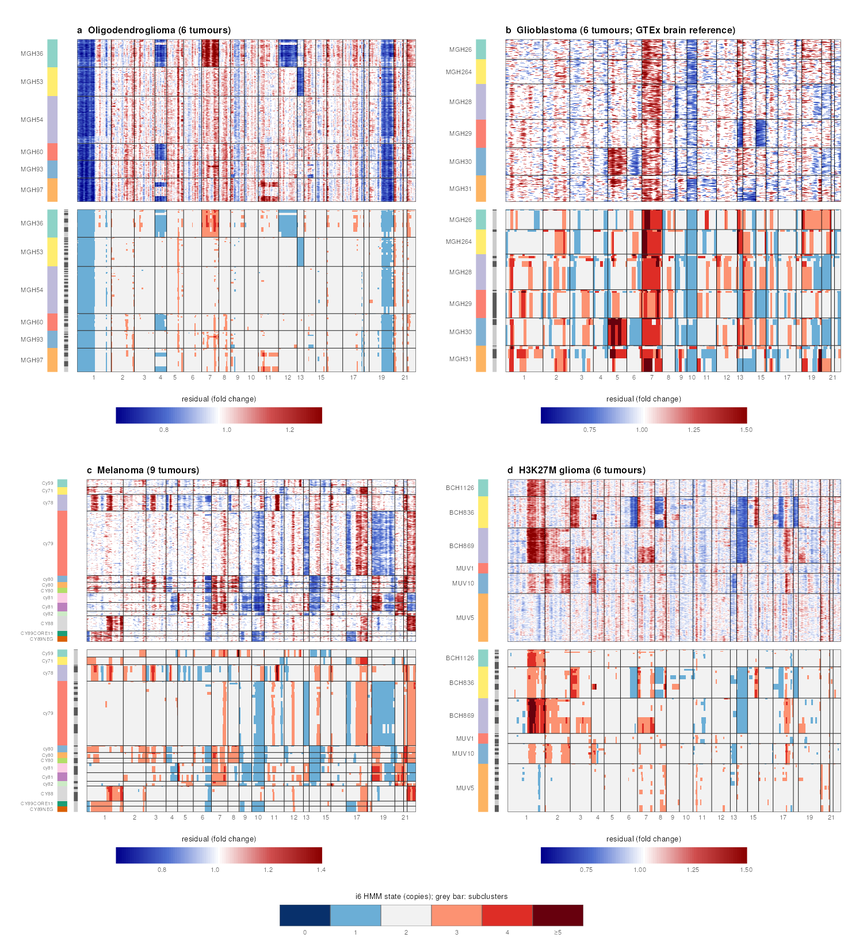
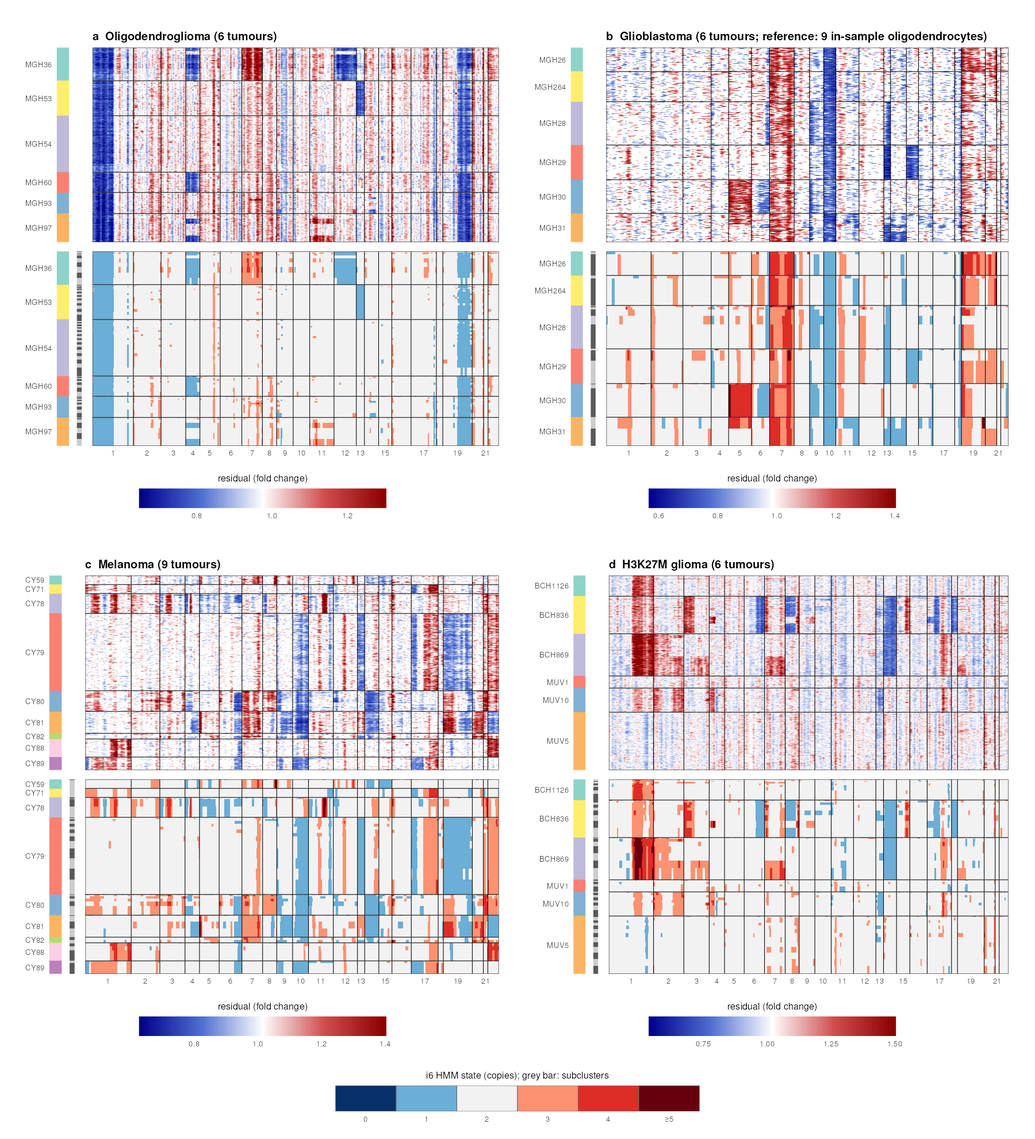
New main figure on subclustering (random_trees permutation test; partition and HMM modes on simulated subclones); Fig 3 with in-sample oligodendrocyte reference for glioblastoma and merged melanoma labels; figure references as cross-references

diff --git a/sections/results.tex b/sections/results.tex
@@ -1,34 +1,38 @@
 \section{Results}\label{sec:results}
 
-\subsection{Workflow on an example data set (Fig. 1)}
+\subsection{Workflow on an example data set (Fig.~\ref{fig:1})}
 
-Figure 1 follows the 184-cell oligodendroglioma example distributed with the package (Smart-seq2; 42 non-malignant and 142 malignant cells from four tumours \citep{tirosh2016oligo}) through the main steps of the pipeline, run with the default settings, \texttt{denoise\ =\ TRUE} and \texttt{seed\ =\ 1}. The log-transformed expression shows no visible genomic structure. After subtraction of the reference and smoothing along chromosomes, the malignant cells are shifted upwards across the genome relative to the reference; per-cell centering removes this offset. After centering and the second subtraction of the reference, the expected loss of 1p and 19q in the malignant cells appears as contiguous blocks, together with tumour-specific changes such as loss of chromosomes 4 and 12 and gain of chromosome 7 in MGH36, while the reference cells remain close to neutral. Denoising clarifies the heatmap, and the HMM converts the residual signal into discrete, filtered state calls per subcluster: 1p and 19q are called at copy number factor 0.5 in all four tumours, and the reference cells have no calls.
+Figure~\ref{fig:1} follows the 184-cell oligodendroglioma example distributed with the package (Smart-seq2; 42 non-malignant and 142 malignant cells from four tumours \citep{tirosh2016oligo}) through the main steps of the pipeline, run with the default settings, \texttt{denoise\ =\ TRUE} and \texttt{seed\ =\ 1}. The log-transformed expression shows no visible genomic structure. After subtraction of the reference and smoothing along chromosomes, the malignant cells are shifted upwards across the genome relative to the reference; per-cell centering removes this offset. After centering and the second subtraction of the reference, the expected loss of 1p and 19q in the malignant cells appears as contiguous blocks, together with tumour-specific changes such as loss of chromosomes 4 and 12 and gain of chromosome 7 in MGH36, while the reference cells remain close to neutral. Denoising clarifies the heatmap, and the HMM converts the residual signal into discrete, filtered state calls per subcluster: 1p and 19q are called at copy number factor 0.5 in all four tumours, and the reference cells have no calls.
 
-\subsection{In-silico spike-in calibration (Fig. 2)}
+\subsection{In-silico spike-in calibration (Fig.~\ref{fig:2})}
 
-Figure 2 illustrates the h-spike calibration on the full oligodendroglioma data set (4,043 malignant and 280 reference cells from six tumours \citep{tirosh2016oligo}). Counts for the simulated chromosomes are drawn from the mean--variance and mean--dropout trends of the data (Fig. 2a,b) and carried through the same processing (Fig. 2c). After processing, the residual levels of the simulated chromosomes are compressed relative to their nominal copy number factors (state means 0.48, 0.77, 1.00, 1.24, 1.48 and 2.02 for the 0-, 1-, 2-, 3-, 4- and $\geq$5-copy states, simulated at relative levels 0.01, 0.5, 1, 1.5, 2 and 3) and differ between data sets, even between the full data and the 184-cell example drawn from it (0.58, 0.84, 1.00, 1.16, 1.30 and 1.62; Fig. 2d), which is why parameters derived from the data themselves are used rather than fixed state means. The single-cell residuals of called events centre on the emission of the called state (Fig. 2e): the 1p deletion (called 1 copy) averages 0.76 against an emission mean of 0.77, the gain of chromosome 7 in MGH36 (3 copies) 1.25 against 1.24, and the higher-level 7p11--q11 segment around \textit{EGFR} in MGH36 (4 copies) 1.42 against 1.48, while the reference cells average 1.00; in the H3K27M glioma data set, 1q of BCH869, with five copies by DNA, is called $\geq$5 copies (1.52 against 1.61). Further events for each called state (Supplementary Fig.~\ref{fig:S6}) show the same agreement for 1- to 4-copy calls, but also show that high-level amplifications are compressed into the open-ended top state, that uniform gains can be split between adjacent states (BCH869 1q is called as alternating 3-, 4- and $\geq$5-copy segments), and that the few 0-copy calls come from subclusters of one to five cells and are not convincing homozygous deletions. The standard deviation of the mean h-spike residual falls with the number of cells averaged with slope $-0.49$ to $-0.51$ on log--log scale, close to the $n^{-1/2}$ expected for independent cells (Fig. 2f). On the same malignant cells, the i3 and i6 HMMs agree on the direction of the call (loss, neutral or gain) for 91\% of gene--cell pairs, and i6 makes almost no calls that i3 does not; the differences are additional i3 calls, gains on 6.3\% and losses on 3.0\% of gene--cell pairs that i6 leaves neutral, mostly short segments and some whole arms (for example 8q and 20p; Fig. 2g).
+Figure~\ref{fig:2} illustrates the h-spike calibration on the full oligodendroglioma data set (4,043 malignant and 280 reference cells from six tumours \citep{tirosh2016oligo}). Counts for the simulated chromosomes are drawn from the mean--variance and mean--dropout trends of the data (Fig.~\ref{fig:2}a,b) and carried through the same processing (Fig.~\ref{fig:2}c). After processing, the residual levels of the simulated chromosomes are compressed relative to their nominal copy number factors (state means 0.48, 0.77, 1.00, 1.24, 1.48 and 2.02 for the 0-, 1-, 2-, 3-, 4- and $\geq$5-copy states, simulated at relative levels 0.01, 0.5, 1, 1.5, 2 and 3) and differ between data sets, even between the full data and the 184-cell example drawn from it (0.58, 0.84, 1.00, 1.16, 1.30 and 1.62; Fig.~\ref{fig:2}d), which is why parameters derived from the data themselves are used rather than fixed state means. The single-cell residuals of called events centre on the emission of the called state (Fig.~\ref{fig:2}e): the 1p deletion (called 1 copy) averages 0.76 against an emission mean of 0.77, the gain of chromosome 7 in MGH36 (3 copies) 1.25 against 1.24, and the higher-level 7p11--q11 segment around \textit{EGFR} in MGH36 (4 copies) 1.42 against 1.48, while the reference cells average 1.00; in the H3K27M glioma data set, 1q of BCH869, with five copies by DNA, is called $\geq$5 copies (1.52 against 1.61). Further events for each called state (Supplementary Fig.~\ref{fig:S6}) show the same agreement for 1- to 4-copy calls, but also show that high-level amplifications are compressed into the open-ended top state, that uniform gains can be split between adjacent states (BCH869 1q is called as alternating 3-, 4- and $\geq$5-copy segments), and that the few 0-copy calls come from subclusters of one to five cells and are not convincing homozygous deletions. The standard deviation of the mean h-spike residual falls with the number of cells averaged with slope $-0.49$ to $-0.51$ on log--log scale, close to the $n^{-1/2}$ expected for independent cells (Fig.~\ref{fig:2}f). On the same malignant cells, the i3 and i6 HMMs agree on the direction of the call (loss, neutral or gain) for 91\% of gene--cell pairs, and i6 makes almost no calls that i3 does not; the differences are additional i3 calls, gains on 6.3\% and losses on 3.0\% of gene--cell pairs that i6 leaves neutral, mostly short segments and some whole arms (for example 8q and 20p; Fig.~\ref{fig:2}g).
 
-\subsection{Application to tumours (Fig. 3)}
+\subsection{Application to tumours (Fig.~\ref{fig:3})}
 
-inferCNV recovers the hallmark CNAs of tumours profiled with Smart-seq2 in the original studies of the method (Fig. 3; inferCNV\_examples data, run with the release and \texttt{seed\ =\ 1}). The 1p/19q co-deletion is called in all six oligodendrogliomas \citep{tirosh2016oligo}, and gain of chromosome 7 with loss of chromosome 10 in all six glioblastomas \citep{patel2014}; with the GTEx bulk brain reference used for the glioblastoma data, the HMM also calls many additional, tumour-specific arm-level changes. The melanomas \citep{tirosh2016melanoma} show diverse, tumour-specific profiles, and in the H3K27M gliomas \citep{filbin2018} gain of 1q is called in three of six tumours (BCH1126, BCH836 and BCH869), while MUV1 and MUV5 have few calls. In some oligodendroglioma and H3K27M glioma samples, subclusters within a tumour show distinct CNA patterns, as noted previously \citep{haas2021thesis}: in MGH97, 41\% of the cells carry loss of 4q and gain of 11q, and in BCH869, gains of 2q and 7q are called in 54\% and 47\% of the cells.
+inferCNV recovers the hallmark CNAs of tumours profiled with Smart-seq2 in the original studies of the method (Fig.~\ref{fig:3}; inferCNV\_examples data, run with the release and \texttt{seed\ =\ 1}). The 1p/19q co-deletion is called in all six oligodendrogliomas \citep{tirosh2016oligo}, and gain of chromosome 7 with loss of chromosome 10 in all six glioblastomas \citep{patel2014}. For the glioblastomas, which contain almost no non-malignant cells, the original study used a bulk normal-brain sample together with ten normal cells as the reference \citep{patel2014}; nine of these, oligodendrocytes, can be recognised in the data by their marker expression. With these nine cells as the reference (Fig.~\ref{fig:3}b), gains of chromosome 7 and losses of chromosome 10 were called for 97\% and 99.7\% of the corresponding gene $\times$ cell positions, and 25\% of positions on other chromosomes were non-neutral; with 1,026 GTEx bulk brain samples as the reference instead, the corresponding values were 93\%, 95\% and 45\%, and adding the GTEx samples to the nine cells gave intermediate background (32\%). A reference of matching normal cells from the same sample is therefore preferable, and bulk tissue profiles are a usable but noisier substitute. The melanomas \citep{tirosh2016melanoma} show diverse, tumour-specific profiles, and in the H3K27M gliomas \citep{filbin2018} gain of 1q is called in three of six tumours (BCH1126, BCH836 and BCH869), while MUV1 and MUV5 have few calls. In some oligodendroglioma and H3K27M glioma samples, subclusters within a tumour show distinct CNA patterns, as noted previously \citep{haas2021thesis}: in MGH97, 41\% of the cells carry loss of 4q and gain of 11q, and in BCH869, gains of 2q and 7q are called in 54\% and 47\% of the cells.
 
 As an orthogonal check on the classification of cells as malignant, we compared inferCNV with detection of the SS18--SSX fusion transcript, the defining driver of synovial sarcoma, in three synovial sarcomas profiled by Smart-seq2 \citep{jerbyarnon2021}, whose reads we reprocessed (Methods; fusions detected with STAR-Fusion \citep{haas2019starfusion, dobin2013star}). For each patient, half of the published immune and stromal cells, one group per published cluster, served as the reference; the other half were held out and analysed together with the malignant cells, and each observed cell was classified from its CNV score and its correlation with the tumour's CNV profile, with thresholds set from the reference cells (Supplementary Fig.~\ref{fig:S5}). Of the 349 observed cells in which SS18--SSX reads were detected, 344 (98.6\%) were classified as malignant (SS1, 153/158; SS13, 141/141; SS16, 50/50); the five exceptions, in SS1, lay just below the thresholds. Malignant cells without detected fusion reads were classified as malignant at the same rate (99.2\%), consistent with incomplete detection of the fusion transcript rather than a distinct population. Of the held-out immune and stromal cells, 266 of 281 (94.7\%) were classified as non-malignant; most of the others lay near the thresholds or came from small clusters with little representation in the reference. All cells labelled malignant by the CNV analysis of the original study were classified as malignant; that label, however, covered only 42 of the 349 malignant cells of SS1, which accounts for most of the disagreement with it.
 
-\subsection{Accuracy against DNA-based copy number (Fig. 4)}
+\subsection{Subclustering (Fig.~\ref{fig:subclusters})}
+
+Because single-cell residuals are noisy, inferCNV runs the HMM on subclusters of cells by default (Fig.~\ref{fig:subclusters}). We compared the partition methods and HMM modes on the simulated four-subclone tumours (sim4; 230 tumour cells analysed as one annotation group; five seeds). The \texttt{random\_trees} method tests each split of the cell dendrogram against a permutation null of the maximum tree height (Fig.~\ref{fig:subclusters}a): in the Smart-seq2 example, the three splits that separate the subclones were significant (p < 0.01), while the dendrograms within subclones A and C were not (p = 0.50 and 0.82). The recursion therefore stopped at four subclusters that matched the subclones for 219 of 230 cells. Across seeds, \texttt{random\_trees} found four or five subclusters, with an ARI against the true subclones of 0.83 (Smart-seq2) and 0.87 (10x). Leiden subclustering, the default, produced 4--8 subclusters, splitting some subclones and merging others (ARI 0.64 and 0.86). The calls followed the partitions: \texttt{random\_trees} gave the highest cell $\times$ gene sensitivity and precision (Smart-seq2 0.97/0.99; 10x 0.99/0.97) against Leiden (0.95/0.96; 0.97/0.96). It also took about the same time at this size (9 and 6 min). Leiden also subclusters the reference cells, and HMM calls in the smallest reference subclusters gave a non-neutral call rate of 0.6--1.5\% in the references, against $\leq$0.1\% with the other partitions. Per-chromosome Leiden subclustering did not improve the calls here (sensitivity 0.93 and 0.97). Without subclustering (\texttt{analysis\_mode = "samples"}), only the clonal CNAs were called (sensitivity 0.74 and 0.81). At the other extreme, per-cell HMM (\texttt{"cells"}) called many false CNAs (precision 0.38 and 0.58; non-neutral calls in 35\% and 20\% of reference gene positions) and took 5--12 times longer (110 and 49 min), mainly in the Bayesian model. Subcluster-level HMM therefore gave the best balance of resolution and noise. \texttt{random\_trees} is therefore preferable when resolving subclones is the aim; its run time at larger numbers of cells was not tested here, and these results come from one simulation design, in which subclones differ by whole-chromosome events.
+
+\subsection{Accuracy against DNA-based copy number (Fig.~\ref{fig:4})}
 
 We used samples and whole-exome copy number truth from the benchmark of \citet{schmid2025} and re-implemented its evaluation (Methods); the comparison with other callers is in that study. Two scores were averaged over malignant cells per genomic bin: the HMM states after Bayesian filtering (CNV score) and the final denoised residual expression (expression score).
 
-For the 10x multiple myeloma sample MM199 (1,916 malignant cells, 245 reference B and NK/T cells), inferCNV's pseudobulk profile followed the exome copy number profile (Fig. 4). The CNV score had an AUC of 0.837 for gains and 0.779 for losses, a Pearson correlation with the truth of 0.581, and a maximal three-class F1 of 0.639 (gain sensitivity 0.562 and precision 0.730; loss sensitivity 0.467 and precision 0.683). The expression score gave similar AUCs (0.831 for gains, 0.786 for losses), the same maximal F1 (0.639) and a lower correlation (0.507). For context, Schmid et al.~reported for inferCNV v1.10 on this sample maximal F1 of 0.673 (CNV) and 0.664 (expression), gain AUCs of 0.837 and 0.849, loss AUCs of 0.782 and 0.801, and correlations of 0.612 and 0.585 \citep{schmid2025}. The values are close despite differences in input: Schmid et al.~reprocessed the reads and used 362 reference cells, whereas we used the deposited count matrix with a re-derived annotation and a newer gene annotation. The partial AUCs of the CNV score were higher than reported for v1.10 (0.796 against 0.700 for gains, 0.620 against 0.544 for losses), but the differences in input preclude attributing this to changes in the code.
+For the 10x multiple myeloma sample MM199 (1,916 malignant cells, 245 reference B and NK/T cells), inferCNV's pseudobulk profile followed the exome copy number profile (Fig.~\ref{fig:4}). The CNV score had an AUC of 0.837 for gains and 0.779 for losses, a Pearson correlation with the truth of 0.581, and a maximal three-class F1 of 0.639 (gain sensitivity 0.562 and precision 0.730; loss sensitivity 0.467 and precision 0.683). The expression score gave similar AUCs (0.831 for gains, 0.786 for losses), the same maximal F1 (0.639) and a lower correlation (0.507). For context, Schmid et al.~reported for inferCNV v1.10 on this sample maximal F1 of 0.673 (CNV) and 0.664 (expression), gain AUCs of 0.837 and 0.849, loss AUCs of 0.782 and 0.801, and correlations of 0.612 and 0.585 \citep{schmid2025}. The values are close despite differences in input: Schmid et al.~reprocessed the reads and used 362 reference cells, whereas we used the deposited count matrix with a re-derived annotation and a newer gene annotation. The partial AUCs of the CNV score were higher than reported for v1.10 (0.796 against 0.700 for gains, 0.620 against 0.544 for losses), but the differences in input preclude attributing this to changes in the code.
 
 The two basal cell carcinoma samples of the benchmark (BCC06 before and after treatment) are shown in Supplementary Fig. S1. Against their exome truth, both inferCNV scores were close to chance (AUC 0.57--0.62, maximal F1 0.41--0.42; Supplementary Table S2), as were the values reported for v1.10 (maximal F1 0.38--0.43) and for all callers in \citet{schmid2025}. The exome segmentation of these samples is highly fragmented (4,522 segments for BCC06, about half of them losses with small copy ratios) and labels about half of the genome as altered, whereas inferCNV shows a few clear arm-level events; BCC06 also has only 33 reference cells. These samples therefore measure the noise of the truth as much as the accuracy of the caller.
 
 BCH869, an H3K27M glioma, contains only three non-malignant cells, so we ran inferCNV on its 489 malignant cells with the immune and oligodendrocyte cells of another tumour from the same study (BCH1126) as the reference, one group per cell type, after reprocessing the reads of both (Methods). We compared the result with the clone copy-number profiles that Filbin et al.\ derived from scRNA-seq and bulk whole-genome sequencing \citep{filbin2018}, as tabulated with per-cell clone labels by \citet{huang2024xclone} (Fig.~\ref{fig:4}b). Averaged over the cells of each clone, the HMM calls recovered all arm-level events of the three main clones (the shared gains of 1q, 2p and 17q and loss of chromosome 14, and the clone 1 gains of 2q, 3q, 7 and 19p), and most events of the 7-cell clone 4. At the arm level, the CNV score had AUCs of 0.98 for gains and 1.00 for losses (maximal F1 0.91 and 1.00); at the gene level, 0.88 and 0.99 (F1 0.79 and 0.84). inferCNV also called a few regions absent from the truth (a loss on 19p13.1 and scattered focal changes), and the three non-malignant BCH869 cells carried scattered focal calls, consistent with residual differences between a reference drawn from another patient and the tumour. The Leiden subclusters separated clone 1 from the other cells and isolated clone 4, but did not separate clones 2 and 3, which differ only by a gain of 2q, and split the large clones into several subclusters (adjusted Rand index 0.52).
 
-\subsection{Accuracy on simulated data (Fig. 5)}
+\subsection{Accuracy on simulated data (Fig.~\ref{fig:5})}
 
 Real data rarely provide cell-level truth, so we evaluated cell × gene accuracy on simulated tumours (Methods). Counts were simulated from normal cells of a Smart-seq2 data set (synovial sarcoma non-malignant cells \citep{jerbyarnon2021}) and a 10x data set, with CNAs covering whole chromosomes (0.5×, 1.5× and 2×) and parts of chromosomes (a 2× partial gain on chr2 and a near-complete loss on chr8), in one tumour population (sim1) or two to four subclones with shared and private events (sim2--sim4). inferCNV was run with the default Leiden subclustering, the i6 HMM and Bayesian filtering, five times with different random seeds.
 
-Across scenarios, inferCNV detected 95--100\% of altered gene positions in tumour cells with the correct direction, and 92--97\% of its non-neutral calls were correct (Table 1, Fig. 5). Among altered genes, the exact i6 state was correct for 89--97\%. In the reference cells, 0.5--0.6\% (10x) and 1.1--1.5\% (Smart-seq2) of gene calls were non-neutral. Subclones were mostly separated by the Leiden subclustering, with subcluster purity falling from 1.00 for a single population to 0.91 (10x) and 0.84 (Smart-seq2) for four subclones of 30--100 cells that share most of their CNAs (sim4). The Bayesian filter mainly removed false calls: for Smart-seq2, it reduced the non-neutral call rate in reference cells from 1.5--2.0\% to 1.1--1.5\% and increased precision by about 0.01, at a cost of at most 0.01 in sensitivity; for 10x the changes were smaller.
+Across scenarios, inferCNV detected 95--100\% of altered gene positions in tumour cells with the correct direction, and 92--97\% of its non-neutral calls were correct (Table 1, Fig.~\ref{fig:5}). Among altered genes, the exact i6 state was correct for 89--97\%. In the reference cells, 0.5--0.6\% (10x) and 1.1--1.5\% (Smart-seq2) of gene calls were non-neutral. Subclones were mostly separated by the Leiden subclustering, with subcluster purity falling from 1.00 for a single population to 0.91 (10x) and 0.84 (Smart-seq2) for four subclones of 30--100 cells that share most of their CNAs (sim4). The Bayesian filter mainly removed false calls: for Smart-seq2, it reduced the non-neutral call rate in reference cells from 1.5--2.0\% to 1.1--1.5\% and increased precision by about 0.01, at a cost of at most 0.01 in sensitivity; for 10x the changes were smaller.
 
 \textbf{Table 1.} Simulation accuracy of the i6 HMM after Bayesian filtering (mean ± s.d. over 5 seeds; release build of the expression model, master v1.23.0 code). Sensitivity: altered gene positions in tumour cells called in the correct direction. Precision: non-neutral calls in the correct direction. Exact state: correct i6 state among altered positions. Reference calls: non-neutral call rate in reference cells. Purity: fraction of tumour cells in subclusters dominated by their own simulated group.
 
@@ -74,8 +78,8 @@ With the three-state HMM, results on 10x data were similar to i6 in sensitivity 
 
 Simulated data are easier than real data. The simulator draws counts from the same mean--variance and dropout model that underlies the h-spike calibration, the simulated CNAs are large, and the simulations contain no batch effects, no cell-type-specific expression programmes among the malignant cells and no doublets. On real 10x data, expression-based calls are noticeably noisier than in these simulations. The simulations therefore show that the implementation behaves as intended, rather than estimating its accuracy in practice.
 
-\subsection{Specificity and scale (Fig. 6)}
+\subsection{Specificity and scale (Fig.~\ref{fig:6})}
 
 To estimate the false-call rate on data without CNAs, we ran inferCNV on peripheral blood mononuclear cells from a healthy donor \citep{tenx2016pbmc3k, xclonedata} (2,625 cells in seven cell types; 2,286 genes after filtering), in four reference designs (Fig.~\ref{fig:6}a). When a random half of every cell type served as the reference for the other half, with one reference group per cell type, 8.7\% of genes $\times$ cells in the observations were in a non-neutral i6 state before and 5.9\% after Bayesian filtering (0--8.3\% by cell type). When the same reference cells were pooled into a single group, the rate rose to 16.7\% (15.0\% after filtering; 7--28\% by cell type), because the reference subtraction can only cancel cell-type-specific expression when the reference cell types are given as separate groups (Section~\ref{sec:implementation}). A random half of the CD4 T cells as the only reference gave 4.1\% (3.8\%) for the other CD4 T cells, but 10--31\% for other lymphocytes and 40--45\% for monocytes; with B cells as the reference, every other cell type had 16--45\%. These calls reflect cell-type expression programmes in gene-dense regions: chromosome arm 6p, and within it the MHC, was the most enriched region in the pooled and mismatched designs (2.1--3.8-fold its share of genes), followed by regions such as the interferon-induced IFITM cluster on 11p15 and 19p13. The Bayesian filter removed about a third of the calls with per-type reference groups, but only 5--10\% (relative) in the other designs, where the false calls form coherent multi-gene regions. The main safeguard against false calls is therefore a reference that covers the lineages of the cells of interest, given as separate groups per cell type.
 
-Run time was the main practical criticism of inferCNV in \citet{schmid2025}. With 4 threads, the three tumour samples of Fig. 4 ran in 12 min (BCC06post; 600 cells), 28 min (BCC06; 1,436 cells) and 50 min (MM199; 2,161 cells and 5,740 genes after filtering), with peak memory of 3.4, 9.6 and 14.8 GB. Most of the time was spent in the Bayesian model and its plots. On a 10x triple-negative breast cancer data set (TNBC1, 1,097 cells) run with 4 threads on a heavily loaded 8-core host, an expression-only run took 1.47 h, of which filtering, normalisation and smoothing took 10 min, Leiden subclustering 17 s, the HMM 6.5 min, the Bayesian model 57 min and the subsequent filtering 13 min; these times are upper bounds. In the simulations (200--330 cells, including 100 reference cells), runs took 3--8 min with the i6 HMM. On nested down-samples of a 10x breast cancer atlas \citep{wu2021breast} (GEO GSE176078; 500--20,000 cells, 80\% malignant cells from eight tumours and 20\% endothelial cells and fibroblasts as the reference; about 8,000 genes after filtering), run with 4 threads on lightly loaded cluster nodes, the default run (i6 with the Bayesian filter) took 17 min for 500 cells, 77 min for 2,500, 4.3 h for 10,000 and 9.4 h for 20,000, with peak memory of 4.7, 20, 66 and 117 GB (Fig.~\ref{fig:6}b--d). The Bayesian model accounted for 76--89\% of the time. Without it, the same runs took 4, 12, 33 and 61 min with 1.6, 3.6, 11 and 19 GB, scaling close to linearly with the number of cells; the i3 HMM was 4--46\% faster still (2--58 min). In these runs the HMM (33 min at 20,000 cells) and preprocessing (20 min) were the largest remaining steps, and Leiden subclustering took 2 min. Users with large data sets can skip the Bayesian model (\texttt{BayesMaxPNormal\ =\ 0}), use the i3 HMM, increase \texttt{num\_threads}, or subsample groups with \texttt{max\_cells\_per\_group}.
+Run time was the main practical criticism of inferCNV in \citet{schmid2025}. With 4 threads, the three tumour samples of Fig.~\ref{fig:4} ran in 12 min (BCC06post; 600 cells), 28 min (BCC06; 1,436 cells) and 50 min (MM199; 2,161 cells and 5,740 genes after filtering), with peak memory of 3.4, 9.6 and 14.8 GB. Most of the time was spent in the Bayesian model and its plots. On a 10x triple-negative breast cancer data set (TNBC1, 1,097 cells) run with 4 threads on a heavily loaded 8-core host, an expression-only run took 1.47 h, of which filtering, normalisation and smoothing took 10 min, Leiden subclustering 17 s, the HMM 6.5 min, the Bayesian model 57 min and the subsequent filtering 13 min; these times are upper bounds. In the simulations (200--330 cells, including 100 reference cells), runs took 3--8 min with the i6 HMM. On nested down-samples of a 10x breast cancer atlas \citep{wu2021breast} (GEO GSE176078; 500--20,000 cells, 80\% malignant cells from eight tumours and 20\% endothelial cells and fibroblasts as the reference; about 8,000 genes after filtering), run with 4 threads on lightly loaded cluster nodes, the default run (i6 with the Bayesian filter) took 17 min for 500 cells, 77 min for 2,500, 4.3 h for 10,000 and 9.4 h for 20,000, with peak memory of 4.7, 20, 66 and 117 GB (Fig.~\ref{fig:6}b--d). The Bayesian model accounted for 76--89\% of the time. Without it, the same runs took 4, 12, 33 and 61 min with 1.6, 3.6, 11 and 19 GB, scaling close to linearly with the number of cells; the i3 HMM was 4--46\% faster still (2--58 min). In these runs the HMM (33 min at 20,000 cells) and preprocessing (20 min) were the largest remaining steps, and Leiden subclustering took 2 min. Users with large data sets can skip the Bayesian model (\texttt{BayesMaxPNormal\ =\ 0}), use the i3 HMM, increase \texttt{num\_threads}, or subsample groups with \texttt{max\_cells\_per\_group}.

diff --git a/sections/implementation.tex b/sections/implementation.tex
@@ -1,6 +1,6 @@
 \section{Implementation}\label{sec:implementation}
 
-A run has two parts: creation of an \texttt{infercnv} object from the inputs, and a call to \texttt{run()}, which applies a fixed sequence of numbered steps (Fig. 1). We describe the expression model with the code defaults of the release; Supplementary Methods gives every step, and Table S1 the parameters \todo{RESULT PENDING: parameter table, from Supplementary Methods}.
+A run has two parts: creation of an \texttt{infercnv} object from the inputs, and a call to \texttt{run()}, which applies a fixed sequence of numbered steps (Fig.~\ref{fig:1}). We describe the expression model with the code defaults of the release; Supplementary Methods gives every step, and Table S1 the parameters \todo{RESULT PENDING: parameter table, from Supplementary Methods}.
 
 \subsection{Inputs}
 
@@ -10,7 +10,7 @@ At object creation, cells with fewer than 100 counts are removed (\texttt{min\_m
 
 \subsection{Expression signal}
 
-Counts are converted into a residual expression signal in which large-scale CNAs appear as contiguous blocks of increased or decreased values (Fig. 1).
+Counts are converted into a residual expression signal in which large-scale CNAs appear as contiguous blocks of increased or decreased values (Fig.~\ref{fig:1}).
 
 \begin{enumerate}
 \def\labelenumi{\arabic{enumi}.}
@@ -49,7 +49,7 @@ To call discrete CNAs, inferCNV segments each chromosome with a hidden Markov mo
 
 First, the default HMM (\texttt{HMM\_type\ =\ "i6"}) has six states. Internally they are defined as expression levels relative to the reference: 0 (simulated as 0.01), 0.5, 1, 1.5, 2 and 3. Taking the reference as diploid, we report them throughout this paper as copy numbers: 0, 1, 2 (neutral, including copy-neutral events), 3, 4 and $\geq$5 copies. The highest state is calibrated at three times the reference level (6 copies) but acts as a catch-all: with no higher state available, any gain beyond about 4 copies, including high-level focal amplifications, is assigned to it, so the HMM does not resolve the amplitude of such events.
 
-Second, the expected residual signal of each state is learned by simulation. There is no simple statistical way to place six state means from the observed data, but the behaviour of normal cells in the same experiment can be modelled. From the reference cells, inferCNV fits the relationship between the log variance and log mean of normalised expression, and between the fraction of zero counts and log mean expression, with smoothing splines. It then constructs a synthetic ``hidden spike-in'' (h-spike) genome: ten artificial chromosomes of 400 genes alternate between neutral copy number and the five altered levels (with 0.01 rather than 0 for complete loss, to allow for ambient or contaminating reads), and one further neutral chromosome takes the remaining genes, so that the h-spike has as many genes as the input matrix. Gene means are sampled with replacement from the observed genes, multiplied by the copy number factor of their chromosome, and counts are simulated for 100 normal and 100 altered cells per reference group from the fitted mean--variance and dropout trends. The h-spike counts are then carried through exactly the same filtering, normalisation, reference subtraction, smoothing and centering as the real data. The processed residuals of each h-spike chromosome give the emission mean and standard deviation of the corresponding state (Fig. 2). The calibration thus accounts for the compression of the signal by processing and for the depth and dropout of the data set. Two caveats apply to the copy-number labels. First, they are relative to each tumour cell's dominant copy-number level. Because the h-spike is built from the reference cells, gains and losses of chromosomes or arms relative to the normal genome are detected as such. However, depth normalisation scales every cell to the same library size, so a uniform change in ploidy, such as whole-genome doubling, is invisible; and centering each cell on its median residual (step 13) makes the most common copy-number level of that cell the neutral state. When most of the genome is unaltered, as in many tumours, this level corresponds to the normal (diploid) dosage; in a highly aneuploid tumour, for example a near-triploid one, it does not: chromosomes at the dominant level appear neutral, and chromosomes at two copies appear as losses. And they are nominal: the h-spike assumes that expression scales in proportion to copy number, whereas dosage effects on expression in real tumours can be weaker or gene-dependent, so a state label describes the calibration level that best matches the observed signal rather than a measured copy number. For groups of cells, emission standard deviations are scaled for group size by a fit of log standard deviation on log number of cells, from resampling 1--100 h-spike cells.
+Second, the expected residual signal of each state is learned by simulation. There is no simple statistical way to place six state means from the observed data, but the behaviour of normal cells in the same experiment can be modelled. From the reference cells, inferCNV fits the relationship between the log variance and log mean of normalised expression, and between the fraction of zero counts and log mean expression, with smoothing splines. It then constructs a synthetic ``hidden spike-in'' (h-spike) genome: ten artificial chromosomes of 400 genes alternate between neutral copy number and the five altered levels (with 0.01 rather than 0 for complete loss, to allow for ambient or contaminating reads), and one further neutral chromosome takes the remaining genes, so that the h-spike has as many genes as the input matrix. Gene means are sampled with replacement from the observed genes, multiplied by the copy number factor of their chromosome, and counts are simulated for 100 normal and 100 altered cells per reference group from the fitted mean--variance and dropout trends. The h-spike counts are then carried through exactly the same filtering, normalisation, reference subtraction, smoothing and centering as the real data. The processed residuals of each h-spike chromosome give the emission mean and standard deviation of the corresponding state (Fig.~\ref{fig:2}). The calibration thus accounts for the compression of the signal by processing and for the depth and dropout of the data set. Two caveats apply to the copy-number labels. First, they are relative to each tumour cell's dominant copy-number level. Because the h-spike is built from the reference cells, gains and losses of chromosomes or arms relative to the normal genome are detected as such. However, depth normalisation scales every cell to the same library size, so a uniform change in ploidy, such as whole-genome doubling, is invisible; and centering each cell on its median residual (step 13) makes the most common copy-number level of that cell the neutral state. When most of the genome is unaltered, as in many tumours, this level corresponds to the normal (diploid) dosage; in a highly aneuploid tumour, for example a near-triploid one, it does not: chromosomes at the dominant level appear neutral, and chromosomes at two copies appear as losses. And they are nominal: the h-spike assumes that expression scales in proportion to copy number, whereas dosage effects on expression in real tumours can be weaker or gene-dependent, so a state label describes the calibration level that best matches the observed signal rather than a measured copy number. For groups of cells, emission standard deviations are scaled for group size by a fit of log standard deviation on log number of cells, from resampling 1--100 h-spike cells.
 
 A simpler three-state HMM (\texttt{HMM\_type\ =\ "i3"}; loss, neutral, gain) does not use the h-spike. Its neutral state has the mean and standard deviation of the reference residuals, and the loss and gain means lie at the distance detectable at \texttt{HMM\_i3\_pval\ =\ 0.05} for the number of cells modelled (Z-based by default; a Kolmogorov--Smirnov criterion as in HoneyBADGER is optional).
 

diff --git a/sections/figures.tex b/sections/figures.tex
@@ -1,7 +1,7 @@
 \begin{figure}[p]
 \centering
 \includegraphics[width=\textwidth]{figures/fig1_workflow.png}
-\caption{\textbf{The inferCNV workflow.} Top, schematic of the main steps; letters mark the steps shown below. Heatmaps, snapshots from the 184-cell oligodendroglioma example data set (142 malignant cells from four tumours above, 42 reference cells below; columns are genes ordered by genomic position, chromosome numbers below). (a) Log-transformed expression after gene filtering and depth normalisation. (b) Residual expression after subtraction of the reference mean and smoothing along each chromosome (log scale). (c) After per-cell centering. (d) After the second reference subtraction, shown on the fold-change scale. (e) After denoising (\texttt{denoise\ =\ TRUE}; same colour scale as d). (f) i6 HMM states after Bayesian filtering (\texttt{BayesMaxPNormal\ =\ 0.5}); the HMM is run per Leiden subcluster (grey bar; one subcluster per tumour in this data set) on the residuals in (d), and each cell is shown with the states of its subcluster. Panels (e) and (f) are alternative outputs derived from (d). The h-spike (top, orange) is processed alongside the data and supplies the HMM emission parameters (Fig.~2).}
+\caption{\textbf{The inferCNV workflow.} Top, schematic of the main steps; letters mark the steps shown below. Heatmaps, snapshots from the 184-cell oligodendroglioma example data set (142 malignant cells from four tumours above, 42 reference cells below; columns are genes ordered by genomic position, chromosome numbers below). (a) Log-transformed expression after gene filtering and depth normalisation. (b) Residual expression after subtraction of the reference mean and smoothing along each chromosome (log scale). (c) After per-cell centering. (d) After the second reference subtraction, shown on the fold-change scale. (e) After denoising (\texttt{denoise\ =\ TRUE}; same colour scale as d). (f) i6 HMM states after Bayesian filtering (\texttt{BayesMaxPNormal\ =\ 0.5}); the HMM is run per Leiden subcluster (grey bar; one subcluster per tumour in this data set) on the residuals in (d), and each cell is shown with the states of its subcluster. Panels (e) and (f) are alternative outputs derived from (d). The h-spike (top, orange) is processed alongside the data and supplies the HMM emission parameters (Fig.~\ref{fig:2}).}
 \label{fig:1}
 \end{figure}
 
@@ -15,8 +15,15 @@
 \begin{figure}[p]
 \centering
 \includegraphics[width=\textwidth]{figures/fig3_gallery.png}
-\caption{\textbf{inferCNV applied to tumours profiled with Smart-seq2.} Final residual expression of the malignant cells (top; fold-change scale) and i6 HMM states after Bayesian filtering (bottom) for (a) oligodendroglioma (six tumours, 4,043 cells), (b) glioblastoma (six tumours, 430 cells; reference: 1,026 GTEx bulk brain samples), (c) melanoma (1,173 malignant cells in 13 annotation groups from nine tumours) and (d) H3K27M glioma (six tumours, 2,259 cells), from the inferCNV\_examples data. Rows are cells grouped by tumour (coloured bar) and ordered by subcluster (alternating grey bar); reference cells are not shown.}
+\caption{\textbf{inferCNV applied to tumours profiled with Smart-seq2.} Final residual expression of the malignant cells (top; fold-change scale) and i6 HMM states after Bayesian filtering (bottom) for (a) oligodendroglioma (six tumours, 4,043 cells), (b) glioblastoma (six tumours, 421 cells; reference: nine oligodendrocytes identified among the profiled cells), (c) melanoma (1,173 malignant cells from nine tumours; annotation labels differing only in case, or marking two samples of one tumour, were merged after their CNA profiles were found to correlate at 0.96--0.98) and (d) H3K27M glioma (six tumours, 2,259 cells), from the inferCNV\_examples data. Rows are cells grouped by tumour (coloured bar) and ordered by subcluster (alternating grey bar); reference cells are not shown.}
 \label{fig:3}
+\end{figure}
+
+\begin{figure}[p]
+\centering
+\includegraphics[width=\textwidth]{figures/fig_subclusters.png}
+\caption{\textbf{Subclustering sets the resolution of the HMM.} Simulated Smart-seq2 tumour with four subclones, A--D (100, 60, 40 and 30 cells; sim4), and 100 reference cells, analysed as a single annotation group with the i6 HMM and the Bayesian filter. (a) \texttt{random\_trees} permutation test (seed 1). Left, \texttt{ward.D2} dendrogram of the 230 tumour cells, computed on smoothed residuals; the bar shows the true subclones and the dashed line the top split. Middle, maximum tree height at each node of the recursion (diamond) against its null from 100 permutations in which each gene's values are shuffled across cells (grey). Nodes are labelled with their size and true composition. A node is split when p $\leq$ 0.1 (\texttt{tumor\_subcluster\_pval}); recursion depth is limited to 3. Right, dendrogram of subclone A (root.1.2), which is not split (p = 0.50). (b) Simulated copy number, residual expression (fold change, before denoising) and i6 states after Bayesian filtering for each analysis mode. Rows are tumour cells ordered by true subclone (left bar). The second bar shows the inferred subclusters, coloured by their majority subclone; shades mark subclusters of the same subclone. The per-chromosome Leiden partitions are not shown. Titles give the number of tumour subclusters and the cell $\times$ gene sensitivity / precision. Colour bar: i6 state as copies (0, 1, 2, 3, 4, $\geq$5). (c) Per-cell sensitivity and precision of tumour cells for each mode (Smart-seq2, five seeds). (d) Summary over five seeds (points) with means (bars) for Smart-seq2 and 10x: ARI and purity of the tumour subclusters against the true subclones; cell $\times$ gene sensitivity and precision; non-neutral call rate in reference cells; run time with 4 threads.}
+\label{fig:subclusters}
 \end{figure}
 
 \begin{figure}[p]
@@ -44,7 +51,7 @@
 \begin{figure}[p]
 \centering
 \includegraphics[width=\textwidth]{figures/figS1_BCC06_genome.png}
-\caption{\textbf{Basal cell carcinoma BCC06 before and after treatment.} As Fig. 4, for BCC06 (1,403 malignant and 33 reference cells) and BCC06post (320 malignant and 280 reference cells). The exome segmentation of these samples is highly fragmented; see text.}
+\caption{\textbf{Basal cell carcinoma BCC06 before and after treatment.} As Fig.~\ref{fig:4}, for BCC06 (1,403 malignant and 33 reference cells) and BCC06post (320 malignant and 280 reference cells). The exome segmentation of these samples is highly fragmented; see text.}
 \label{fig:S1}
 \end{figure}
 

diff --git a/sections/methods.tex b/sections/methods.tex
@@ -16,7 +16,7 @@ The evaluation re-implements that of Schmid et al.~Truth segments were tiled int
 
 \subsection{Run time}
 
-Run times for Fig. 4 were measured on a compute cluster with 4 threads per job (wall time and peak resident memory as reported by the scheduler). TNBC1 (10x, 1,097 cells: 302 normal cells as reference and two tumour clones) \citep{gao2021copykat, huang2024xclone, xclonedata} was run in expression-only mode with the Fig. 4 settings on an 8-core host with load averages of about 40, so its times are upper bounds; step times were taken from the run log. In an earlier run, Leiden subclustering appeared to take 1.6 h; this was caused by calling \texttt{run()} through \texttt{do.call()} with the object inlined in the call, which Seurat's \texttt{ScaleData} then deparses. Calling \texttt{run()} directly avoids this. For the scaling experiment (Fig.~\ref{fig:6}b--d), nested down-samples of 500, 1,000, 2,500, 5,000, 10,000 and 20,000 cells were drawn from a 10x breast cancer atlas \citep{wu2021breast} (GEO GSE176078; author cell-type labels): 80\% malignant epithelial cells from the eight tumours with the most such cells, annotated by tumour, and 20\% endothelial cells and cancer-associated fibroblasts as two reference groups, allocated proportionally, with each subset containing the smaller ones. About 8,000 genes passed \texttt{cutoff = 0.1} at every size. Each size was run with i6 and the Bayesian filter (default), i6 without it (\texttt{BayesMaxPNormal = 0}) and i3 without it, with 4 threads on lightly loaded 128-core cluster nodes. Wall time and peak resident memory were taken from \texttt{/usr/bin/time -v}, and step times from the run log.
+Run times for Fig.~\ref{fig:4} were measured on a compute cluster with 4 threads per job (wall time and peak resident memory as reported by the scheduler). TNBC1 (10x, 1,097 cells: 302 normal cells as reference and two tumour clones) \citep{gao2021copykat, huang2024xclone, xclonedata} was run in expression-only mode with the Fig.~\ref{fig:4} settings on an 8-core host with load averages of about 40, so its times are upper bounds; step times were taken from the run log. In an earlier run, Leiden subclustering appeared to take 1.6 h; this was caused by calling \texttt{run()} through \texttt{do.call()} with the object inlined in the call, which Seurat's \texttt{ScaleData} then deparses. Calling \texttt{run()} directly avoids this. For the scaling experiment (Fig.~\ref{fig:6}b--d), nested down-samples of 500, 1,000, 2,500, 5,000, 10,000 and 20,000 cells were drawn from a 10x breast cancer atlas \citep{wu2021breast} (GEO GSE176078; author cell-type labels): 80\% malignant epithelial cells from the eight tumours with the most such cells, annotated by tumour, and 20\% endothelial cells and cancer-associated fibroblasts as two reference groups, allocated proportionally, with each subset containing the smaller ones. About 8,000 genes passed \texttt{cutoff = 0.1} at every size. Each size was run with i6 and the Bayesian filter (default), i6 without it (\texttt{BayesMaxPNormal = 0}) and i3 without it, with 4 threads on lightly loaded 128-core cluster nodes. Wall time and peak resident memory were taken from \texttt{/usr/bin/time -v}, and step times from the run log.
 
 \subsection{Reprocessing of Smart-seq2 data}
 
